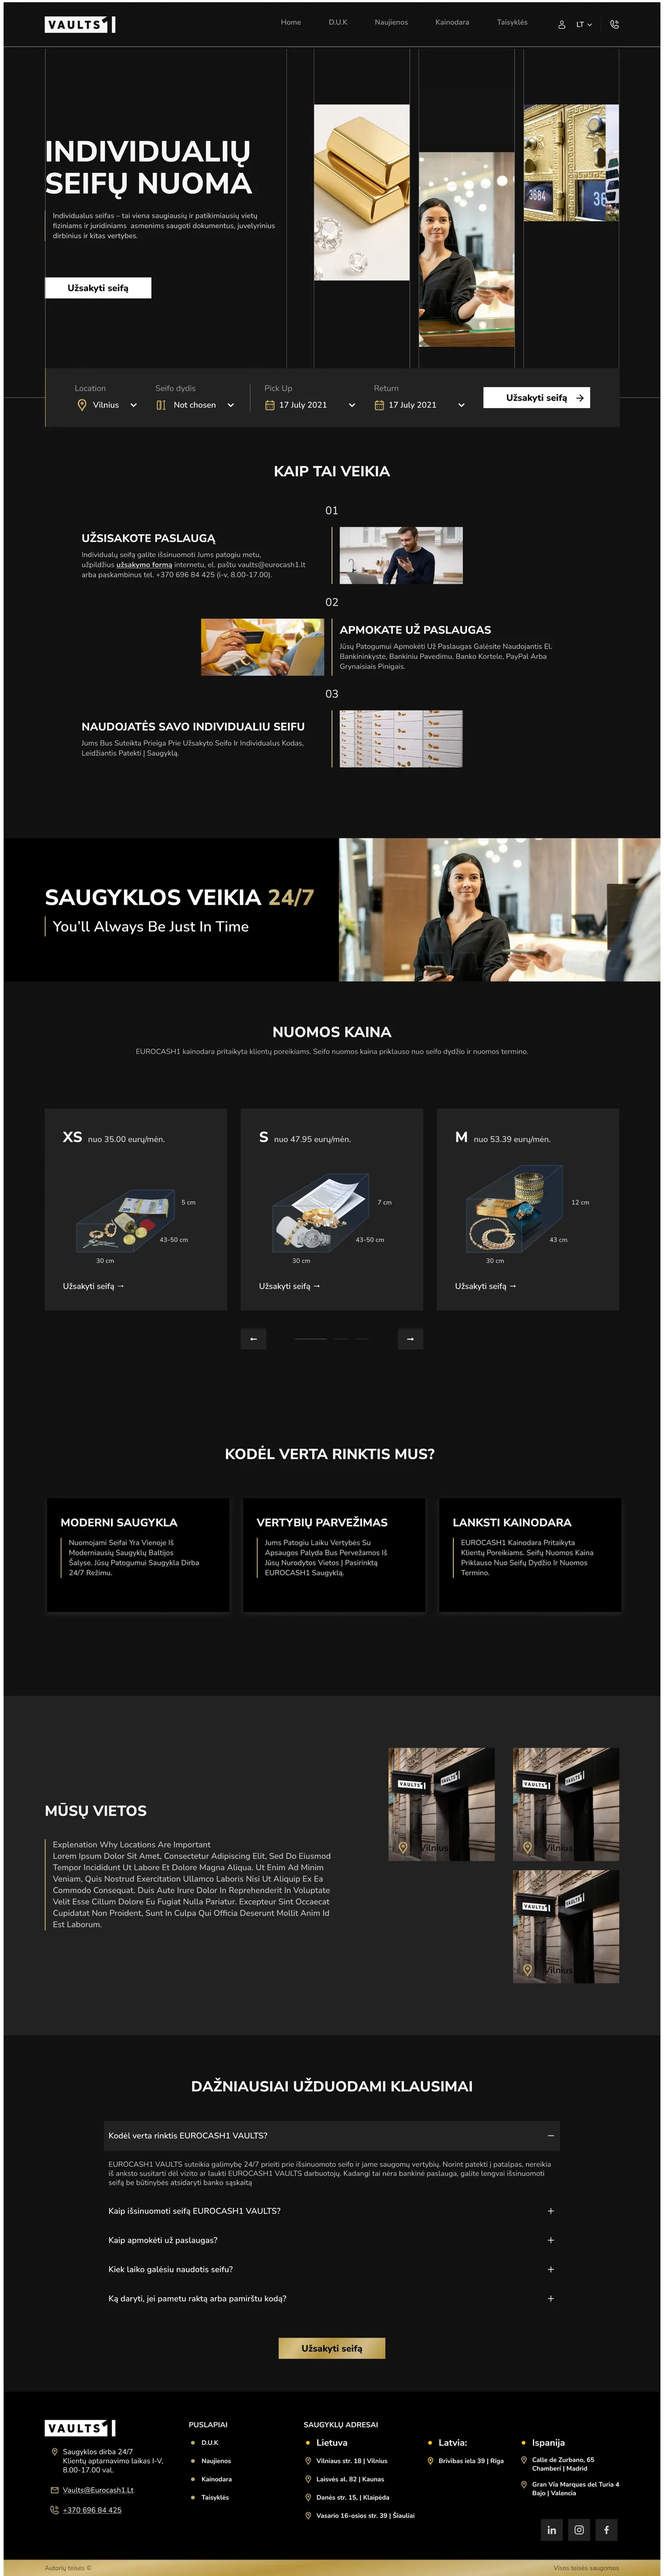
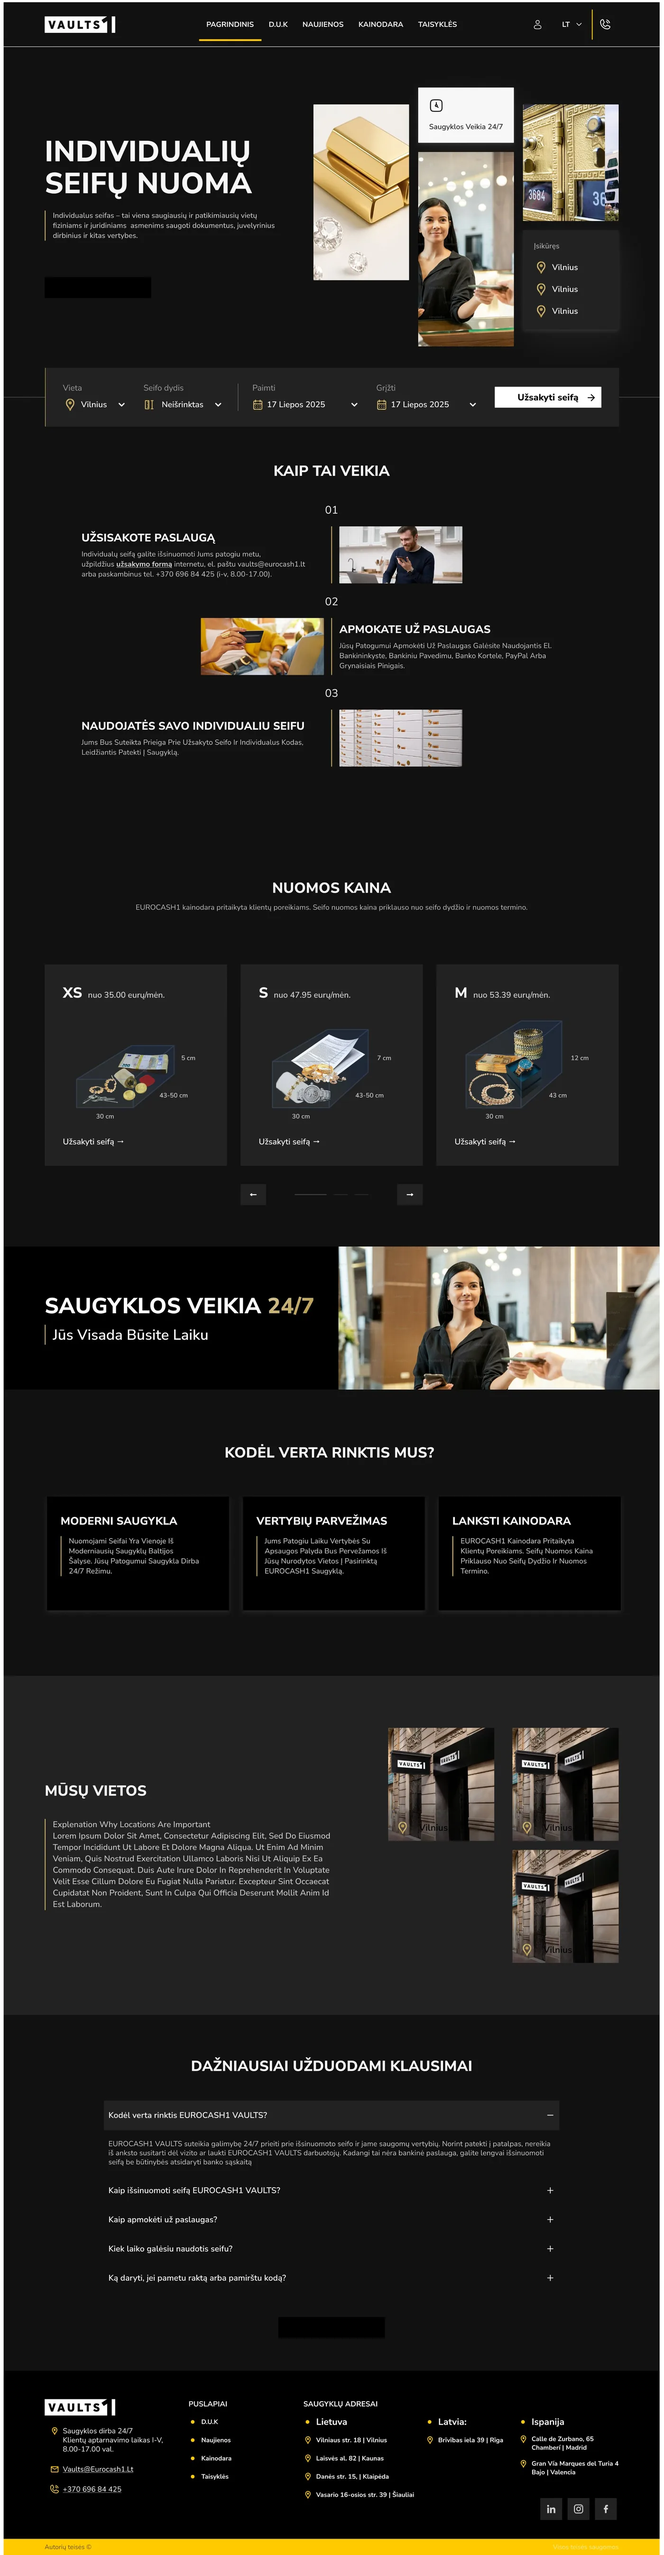
Vaults1: use final light and dark home page exports
Claude-Session: https://claude.ai/code/session_01XoV92WtS4z3pdNgff95CZQ

diff --git a/docs/case-vaults.html b/docs/case-vaults.html
@@ -154,8 +154,8 @@
 <p>The booking bar sits in the first screen, the three-step “how it works” explains the service before the price, and sizes appear as filled boxes in a carousel. The same layout holds on mobile. Select a screen to see the full page.</p>
 </div>
 <div class="vaults-screens">
-<figure class="case-story-media vaults-screen"><button type="button" class="vessel-image-open" data-vessel-zoom aria-label="Open home page, light version larger"><img src="images/cases/vaults-home-light.webp" width="1400" height="5426" alt="Vaults1 home page in the light version: hero with booking bar, how it works, 24/7 banner, pricing carousel with filled boxes, reasons to choose, locations, FAQ and footer" loading="lazy" decoding="async"></button><figcaption>Explored: light version.</figcaption></figure>
-<figure class="case-story-media vaults-screen"><button type="button" class="vessel-image-open" data-vessel-zoom aria-label="Open home page, dark version larger"><img src="images/cases/vaults-home-dark.webp" width="1400" height="5429" alt="Vaults1 home page in the dark version with the same sections on a black background" loading="lazy" decoding="async"></button><figcaption>Explored: dark version.</figcaption></figure>
+<figure class="case-story-media vaults-screen"><button type="button" class="vessel-image-open" data-vessel-zoom aria-label="Open home page, light version larger"><img src="images/cases/vaults-home-light.webp?v=2" width="1400" height="5323" alt="Vaults1 home page in the light version: hero with booking bar, how it works, 24/7 banner, pricing carousel with filled boxes, reasons to choose, locations, FAQ and footer" loading="lazy" decoding="async"></button><figcaption>Explored: light version.</figcaption></figure>
+<figure class="case-story-media vaults-screen"><button type="button" class="vessel-image-open" data-vessel-zoom aria-label="Open home page, dark version larger"><img src="images/cases/vaults-home-dark.webp?v=2" width="1400" height="5385" alt="Vaults1 home page in the dark version with the same sections on a black background" loading="lazy" decoding="async"></button><figcaption>Explored: dark version.</figcaption></figure>
 <figure class="case-story-media vaults-screen vaults-screen-mobile"><button type="button" class="vessel-image-open" data-vessel-zoom aria-label="Open mobile home page, alternating dark and light blocks, larger"><img src="images/cases/vaults-home-mobile.webp" width="592" height="8000" alt="Vaults1 home page on mobile: hero with map of locations, booking form, how it works, pricing carousel, FAQ, news and footer" loading="lazy" decoding="async"></button><figcaption>Chosen direction on mobile: alternating dark and light blocks.</figcaption></figure>
 </div>
 </section>
